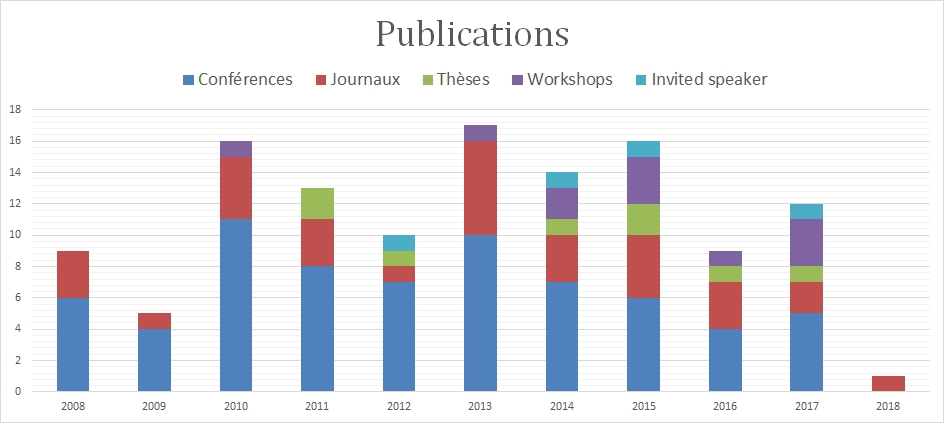
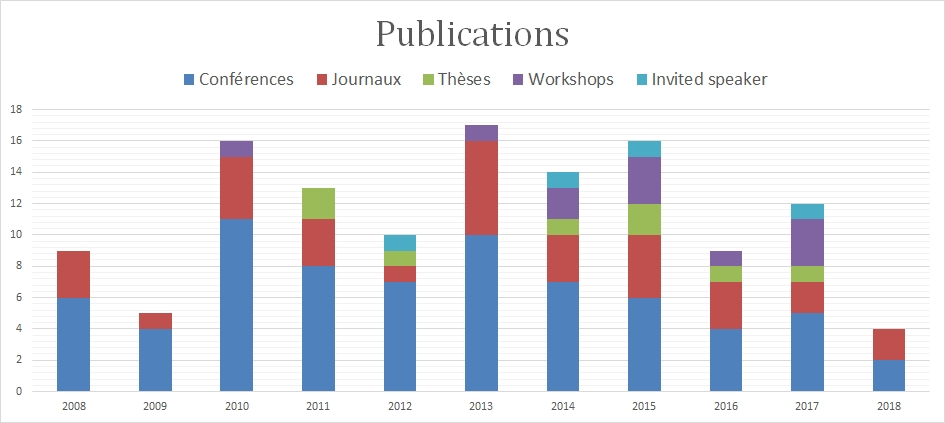
Mise à jour 21/02/2018

diff --git a/publications/index.html b/publications/index.html
@@ -575,8 +575,8 @@
 </li>
       
         <li class="md-nav__item">
-  <a href="#journaux-internationaux-31" title="Journaux internationaux (31)" class="md-nav__link">
-    Journaux internationaux (31)
+  <a href="#journaux-internationaux-32" title="Journaux internationaux (32)" class="md-nav__link">
+    Journaux internationaux (32)
   </a>
   
 </li>
@@ -603,8 +603,8 @@
 </li>
       
         <li class="md-nav__item">
-  <a href="#conferences-internationales-53" title="Conférences internationales (53)" class="md-nav__link">
-    Conférences internationales (53)
+  <a href="#conferences-internationales-55" title="Conférences internationales (55)" class="md-nav__link">
+    Conférences internationales (55)
   </a>
   
 </li>
@@ -674,8 +674,8 @@
 </li>
       
         <li class="md-nav__item">
-  <a href="#journaux-internationaux-31" title="Journaux internationaux (31)" class="md-nav__link">
-    Journaux internationaux (31)
+  <a href="#journaux-internationaux-32" title="Journaux internationaux (32)" class="md-nav__link">
+    Journaux internationaux (32)
   </a>
   
 </li>
@@ -702,8 +702,8 @@
 </li>
       
         <li class="md-nav__item">
-  <a href="#conferences-internationales-53" title="Conférences internationales (53)" class="md-nav__link">
-    Conférences internationales (53)
+  <a href="#conferences-internationales-55" title="Conférences internationales (55)" class="md-nav__link">
+    Conférences internationales (55)
   </a>
   
 </li>
@@ -759,7 +759,7 @@
 <h2 id="graphique-des-publications">Graphique des publications<a class="headerlink" href="#graphique-des-publications" title="Permanent link">&para;</a></h2>
 <p><img alt="Graphique des publications" src="../images/publications.jpg" /></p>
 <p>au 28/01/2018</p>
-<h2 id="journaux-internationaux-31">Journaux internationaux (31)<a class="headerlink" href="#journaux-internationaux-31" title="Permanent link">&para;</a></h2>
+<h2 id="journaux-internationaux-32">Journaux internationaux (32)<a class="headerlink" href="#journaux-internationaux-32" title="Permanent link">&para;</a></h2>
 <table>
 <thead>
 <tr>
@@ -771,9 +771,15 @@
 </thead>
 <tbody>
 <tr>
-<td align="left"><a href="">144</a></td>
+<td align="left"><a href="../files/145.pdf">145</a></td>
 <td align="left">2018</td>
-<td align="left">Q2 2016</td>
+<td align="left"><strong>Q2 2016</strong></td>
+<td>Muhammad Arslan, Christophe Cruz, Ana-Maria Roxin, Dominique Ginhac, <strong>Spatio-temporal Analysis of Trajectories for Safer Construction Sites</strong>,  Journal of Smart and Sustainable Built Environment (SASBE), Emerald, 2018, (IF 0.63, 2016)</td>
+</tr>
+<tr>
+<td align="left"><a href="../files/144.pdf">144</a></td>
+<td align="left">2018</td>
+<td align="left"><strong>Q2 2016</strong></td>
 <td>Mokhtaria Hacherouf, Saﬁa Nait-Bahloul, Christophe Cruz, <strong>Transforming XML Schemas into OWL ontologies using Formal Concept Analysis</strong>, SoSym Softwware and Systems Modeling, <a href="https://doi.org/10.1007/s10270-017-0651-4">https://doi.org/10.1007/s10270-017-0651-4</a>, pp 1-18, 2018, (IF 1.654, 2016)</td>
 </tr>
 <tr>
@@ -1154,7 +1160,7 @@
 </tr>
 </tbody>
 </table>
-<h2 id="conferences-internationales-53">Conférences internationales (53)<a class="headerlink" href="#conferences-internationales-53" title="Permanent link">&para;</a></h2>
+<h2 id="conferences-internationales-55">Conférences internationales (55)<a class="headerlink" href="#conferences-internationales-55" title="Permanent link">&para;</a></h2>
 <table>
 <thead>
 <tr>
@@ -1164,6 +1170,16 @@
 </tr>
 </thead>
 <tbody>
+<tr>
+<td align="left"><a href="../files/147.pdf">147</a></td>
+<td align="left">2018</td>
+<td>Muhammad Arslan, Christophe Cruz, Dominique Ginhac, “Understanding Occupancy Patterns of Stay Locations using Semantic Trajectory Analytics”, International Conference on Information Security and Smart Cities, pp., 27-28 June, 2018, Cambridge city, United Kingdom.</td>
+</tr>
+<tr>
+<td align="left"><a href="../files/146.pdf">146</a></td>
+<td align="left">2018</td>
+<td>Muhammad Arslan, Christophe Cruz, Dominique Ginhac, “Semantic Enrichment of Spatio-temporal Trajectories for Worker Safety on Construction Sites”, The 9<sup>th</sup> International Conference on Ambient Systems, Networks and Technologies, pp., May 8-11, 2018, Porto, Portugal.</td>
+</tr>
 <tr>
 <td align="left"><a href="../files/142.pdf">142</a></td>
 <td align="left">2017</td>

diff --git a/index.html b/index.html
@@ -20,10 +20,12 @@
       
       <meta name="generator" content="mkdocs-0.16.3, mkdocs-material-1.10.1">
     
-          
+    
+      
         <title>Activités -  Christophe Cruz</title>
       
-        
+    
+    
       <script src="./assets/javascripts/modernizr-e826f8942a.js"></script>
     
     
@@ -31,6 +33,10 @@
       
         <link rel="stylesheet" href="./assets/stylesheets/application-23f75ab9c7.palette.css">
       
+    
+    
+      
+        
         
         
         <link rel="stylesheet" href="https://fonts.googleapis.com/css?family=Ubuntu:300,400,400i,700|Ubuntu+Mono">
@@ -39,8 +45,11 @@
       <link rel="stylesheet" href="https://fonts.googleapis.com/icon?family=Material+Icons">
     
     
-  </head>
     
+  </head>
+  
+  
+  
   
     <body data-md-color-primary="light-green" data-md-color-accent="light-green">
   
